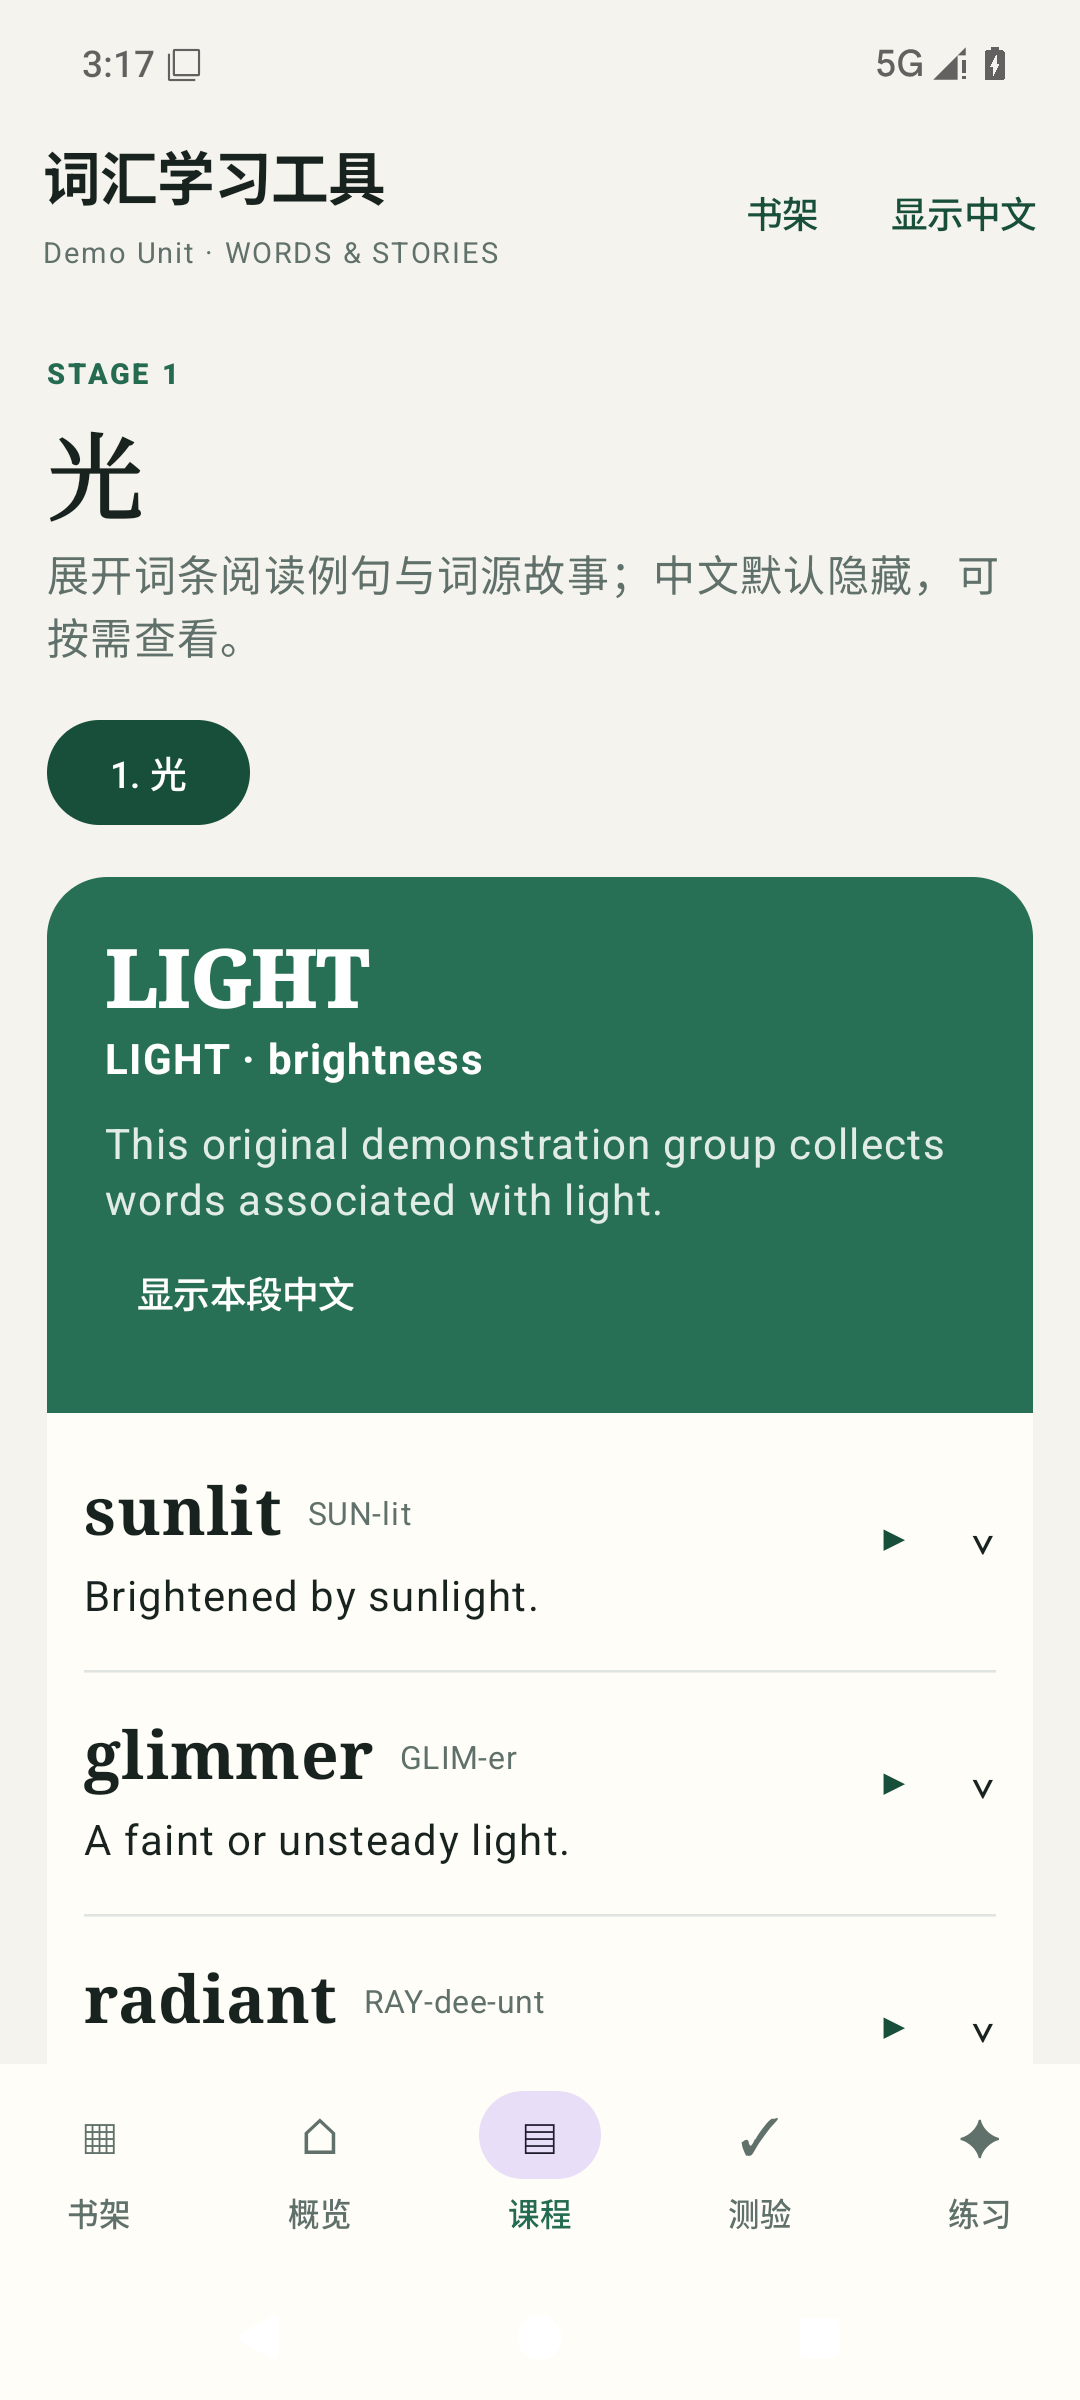
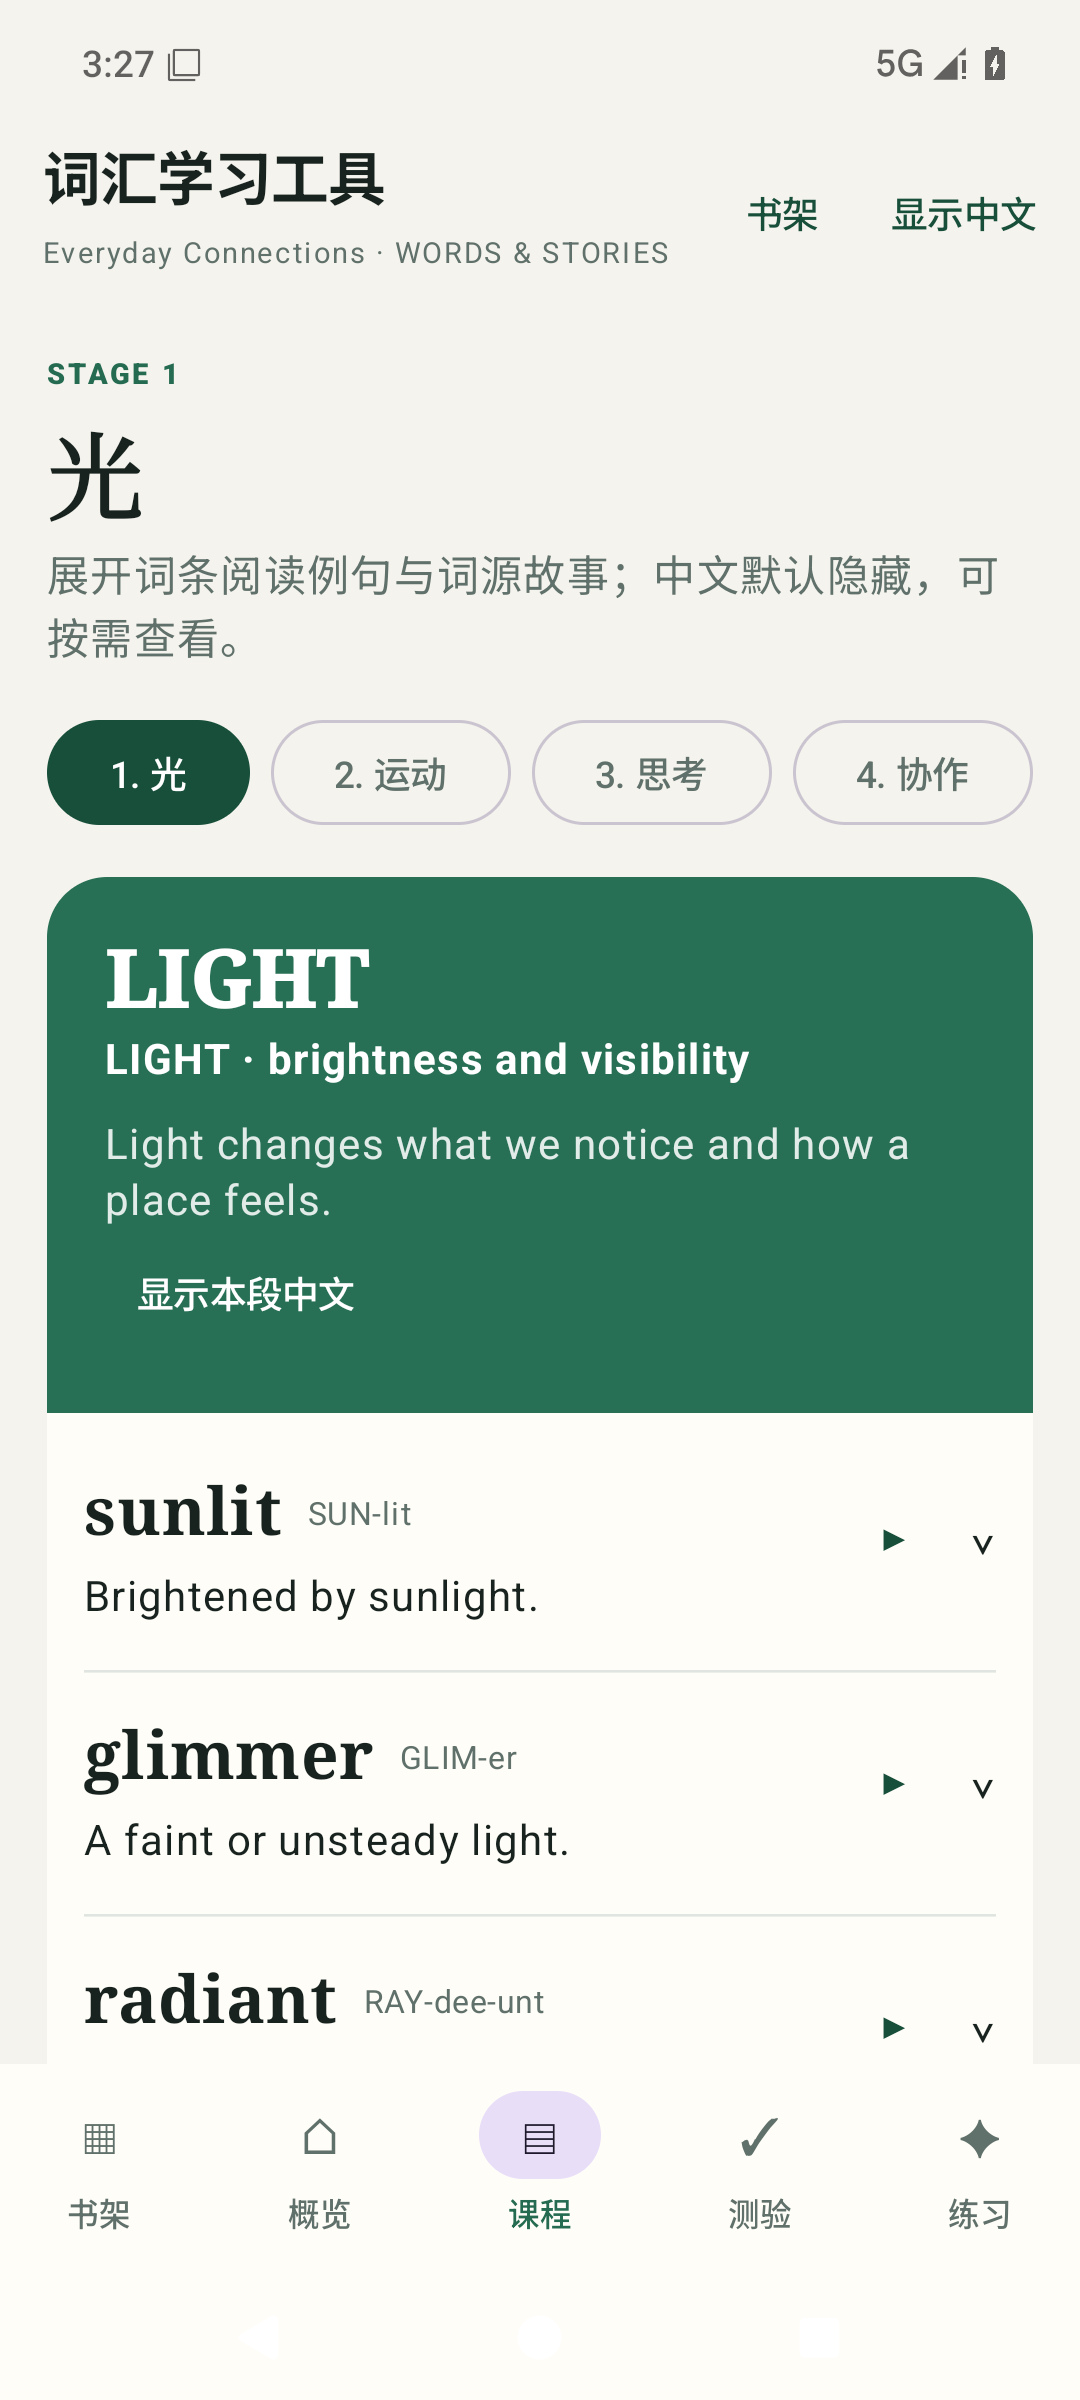
Expand the original demo into a complete unit

diff --git a/README.md b/README.md
@@ -14,7 +14,8 @@
 
 本公开仓库不包含任何教材正文、翻译、扫描件、来源映射、提取结果、审核记录、生产
 APK 或其他中间文件。仓库自带的单单元数据全部为原创演示内容，只用于确保克隆后
-项目能够直接运行。
+项目能够直接运行。完整示范单元包含 5 个课程阶段、15 个双语词条、5 个阶段测验和
+1 个综合复习测验，可体验应用的主要学习流程。
 
 ### 功能
 
@@ -54,7 +55,8 @@ An offline-first Android vocabulary-learning shell built with Kotlin and Jetpack
 This public repository contains no textbook text, translation, scan, source map, extraction
 output, review record, production APK, or other intermediate artifact. Its bundled single-unit
 dataset is newly written demonstration content included only to keep the project runnable after
-cloning.
+cloning. The complete demo unit includes five lesson stages, 15 bilingual entries, five stage
+quizzes, and one cumulative review quiz, covering the application's main learning flow.
 
 ### Features
 
